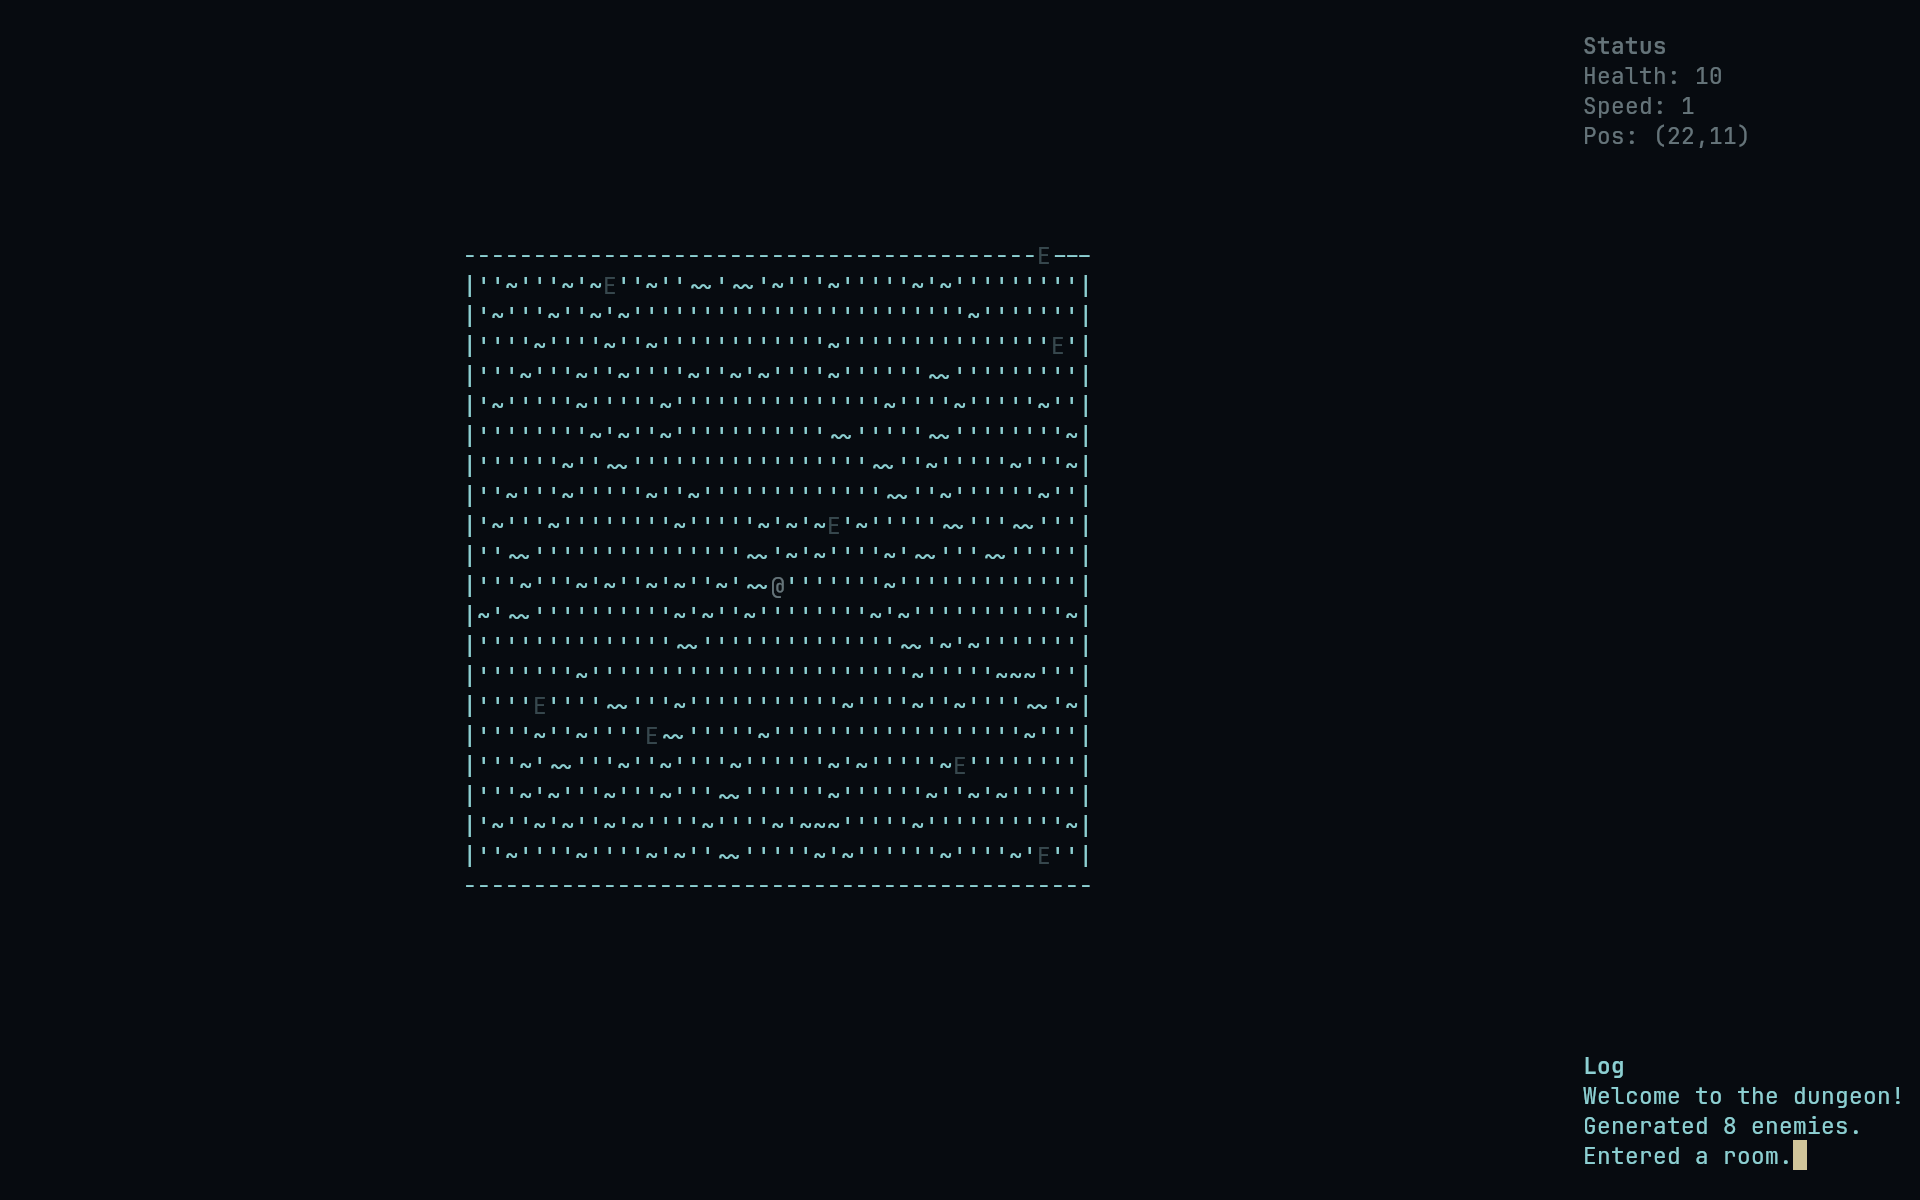
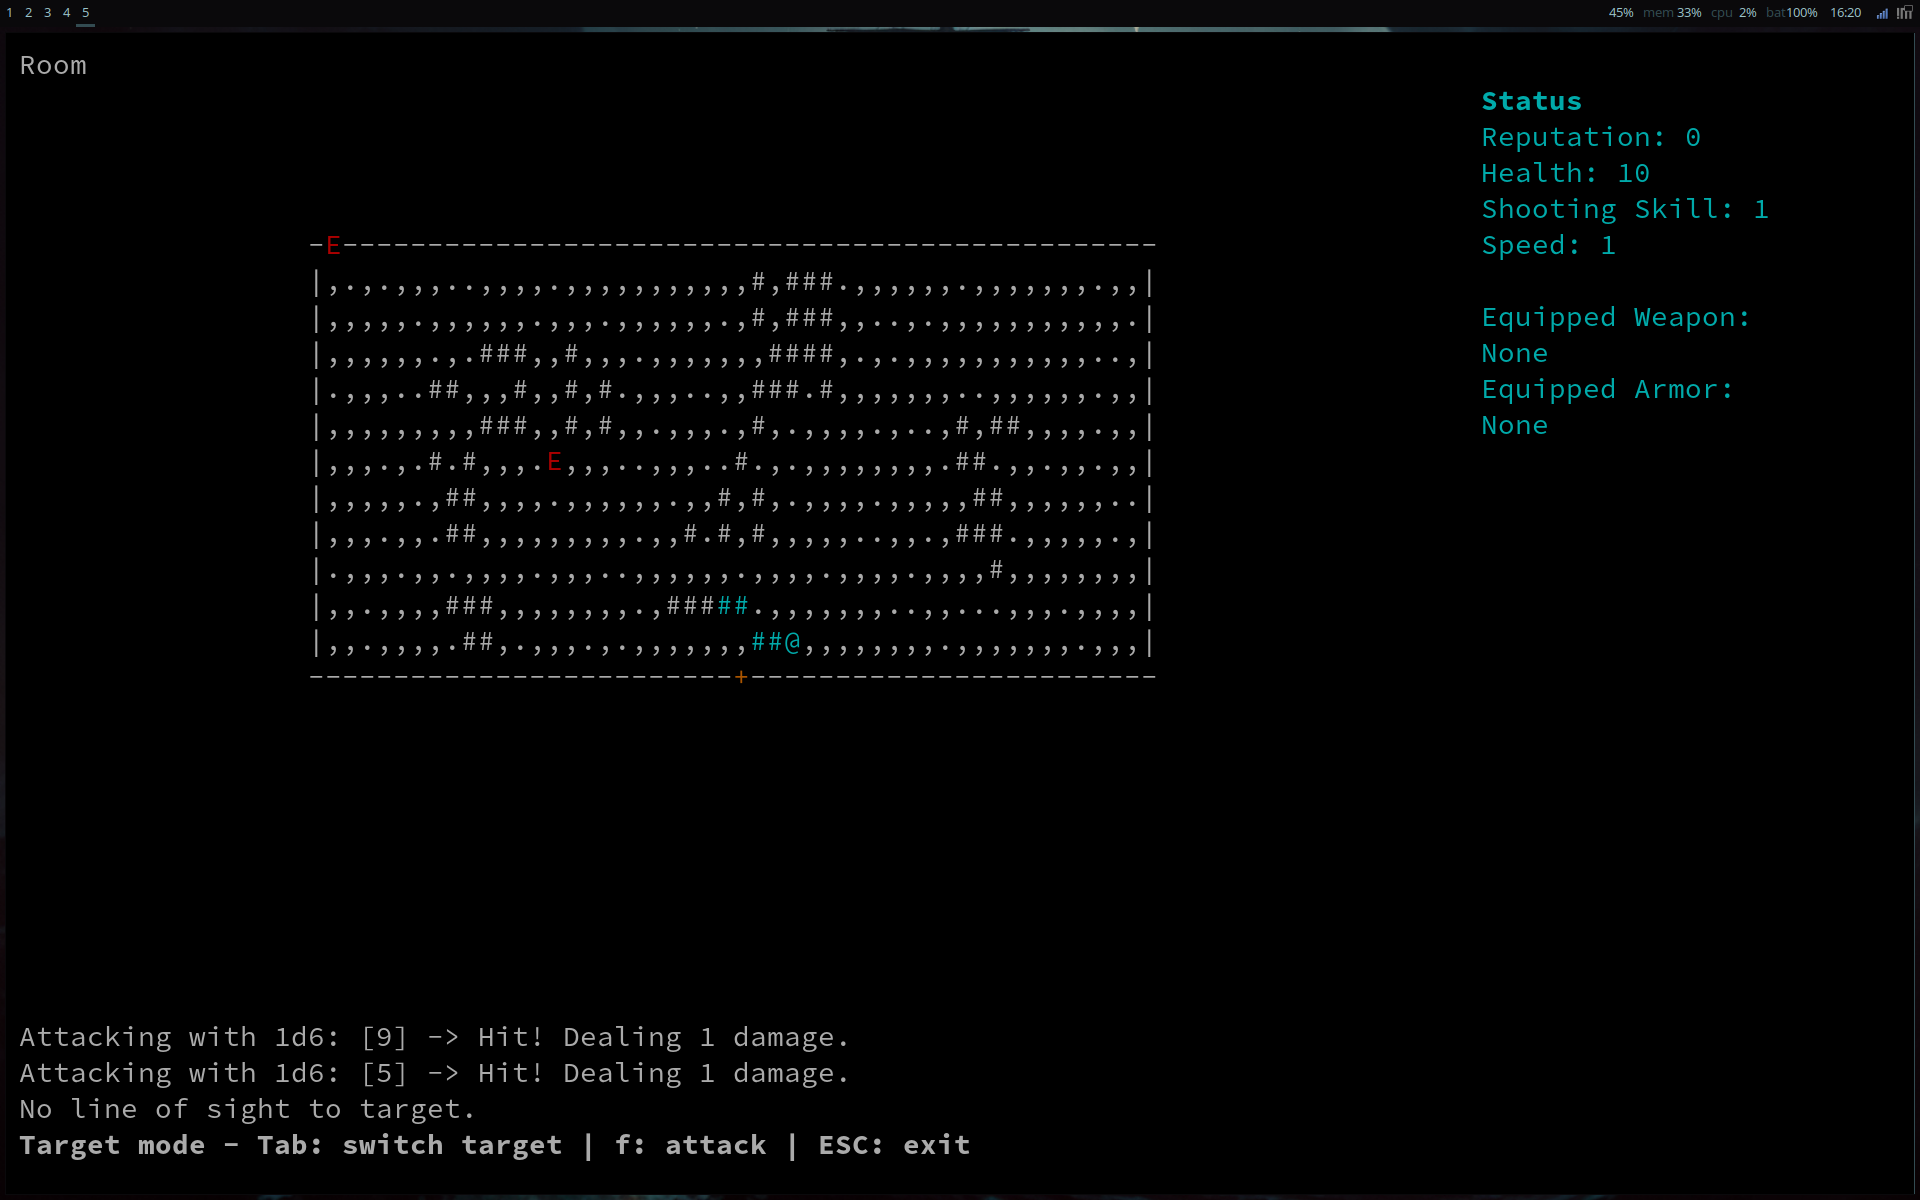
TargetMode: Respect Line of Sight

diff --git a/src/target_mode.py b/src/target_mode.py
@@ -12,15 +12,23 @@ class TargetMode:
         )
         self.target_x = enemies[self.target_index].x
         self.target_y = enemies[self.target_index].y
-        self.game.selected_enemy = enemies[self.target_index]
+        if self.has_line_of_sight(self.target_x, self.target_y):
+            self.game.selected_enemy = enemies[self.target_index]
 
     def select_target(self):
         self.target_index = (self.target_index + 1) % len(self.enemies)
-        self.game.selected_enemy = self.enemies[self.target_index]
         self.target_x = self.enemies[self.target_index].x
         self.target_y = self.enemies[self.target_index].y
+        if self.has_line_of_sight(self.target_x, self.target_y):
+            self.game.selected_enemy = self.enemies[self.target_index]
+        else:
+            self.game.selected_enemy = None
 
     def attack_target(self):
+        if not self.game.selected_enemy:
+            self.game.add_log_message("No line of sight to target.")
+            self.disable()
+            return
         self.game.selected_enemy = self.enemies[self.target_index]
         self.game.player.attack(self.game.selected_enemy)
         self.disable()
@@ -46,6 +54,22 @@ class TargetMode:
                 self.disable()
                 break
 
+    def has_line_of_sight(self, x, y):
+        dx = x - self.game.player.x
+        dy = y - self.game.player.y
+
+        steps = max(abs(dx), abs(dy))
+        for i in range(1, steps):
+            x = self.game.player.x + int(i * dx / steps)
+            y = self.game.player.y + int(i * dy / steps)
+
+            if self.game.current_room.tiles[y][x] in [
+                self.game.TILES["wall"],
+                self.game.TILES["obstacle"],
+            ]:
+                return False
+        return True
+
     def draw_target_line(self):
         if not self.game.target_mode:
             return
@@ -56,6 +80,14 @@ class TargetMode:
         for i in range(1, steps):
             x = self.game.player.x + int(i * dx / steps)
             y = self.game.player.y + int(i * dy / steps)
+
+            # respect line of sight - stop drawing if we hit a wall or obstacle
+            if self.game.current_room.tiles[y][x] in [
+                self.game.TILES["wall"],
+                self.game.TILES["obstacle"],
+            ]:
+                break
+
             self.game.stdscr.addch(
                 y + self.game.player.offset_y,
                 x + self.game.player.offset_x,

diff --git a/src/rooms.py b/src/rooms.py
@@ -28,14 +28,32 @@ class Room(RoomBase, EnemiesMixin):
         self.hallway_entry = (x, y)
 
     def generate(self):
+        tiles = self.generate_floor()
+        tiles = self.generate_random_rumble(tiles)
+        tiles = self.generate_obstacles(tiles)
+        return tiles
+
+    def generate_floor(self):
         return [
-            [
-                (
-                    self.game.TILES["floor"]
-                    if random.random() > 0.2
-                    else self.game.TILES["rumble"]
-                )
-                for _ in range(self.width)
-            ]
+            [self.game.TILES["floor"] for _ in range(self.width)]
             for _ in range(self.height)
         ]
+
+    def generate_random_rumble(self, tiles):
+        for y in range(self.height):
+            for x in range(self.width):
+                if random.random() > 0.2:
+                    tiles[y][x] = self.game.TILES["rumble"]
+        return tiles
+
+    def generate_obstacles(self, tiles):
+        for _ in range(random.randint(3, 9)):
+            x = random.randint(1, self.width - 5)
+            y = random.randint(1, self.height - 5)
+            width = random.randint(3, 5)
+            height = random.randint(3, 5)
+            for i in range(y, y + height):
+                for j in range(x, x + width):
+                    if random.random() > 0.5:
+                        tiles[i][j] = self.game.TILES["obstacle"]
+        return tiles

diff --git a/src/player.py b/src/player.py
@@ -38,23 +38,21 @@ class Player:
     def move(self, dx, dy, game):
         new_x = self.x + dx
         new_y = self.y + dy
+        if not game.current_room.is_walkable(new_x, new_y):
+            return
 
-        if (
-            0 <= new_x < game.current_room.width
-            and 0 <= new_y < game.current_room.height
-        ):
-            if game.current_room is game.hallway:
-                for room in game.available_rooms:
-                    if (new_x, new_y) == room.hallway_entry:
-                        self.game.enter_room(room)
-                        return
-            else:
-                if game.current_room.exit:
-                    if (new_x, new_y) == game.current_room.exit:
-                        self.game.exit_room(game.current_room)
-                        return
-            self.x = new_x
-            self.y = new_y
+        if game.current_room is game.hallway:
+            for room in game.available_rooms:
+                if (new_x, new_y) == room.hallway_entry:
+                    self.game.enter_room(room)
+                    return
+        else:
+            if game.current_room.exit:
+                if (new_x, new_y) == game.current_room.exit:
+                    self.game.exit_room(game.current_room)
+                    return
+        self.x = new_x
+        self.y = new_y
 
     @property
     def attack_power(self):

diff --git a/src/room_base.py b/src/room_base.py
@@ -36,6 +36,16 @@ class RoomBase:
     def offset_y(self):
         return (self.game.map_height - self.height) // 2
 
+    def is_walkable(self, x, y):
+        if 0 <= x < self.width and 0 <= y < self.height:
+            return self.tiles[y][x] in (
+                self.game.TILES["rumble"],
+                self.game.TILES["hallway"],
+                self.game.TILES["floor"],
+                self.game.TILES["door"],
+            )
+        return False
+
     def draw(self, stdscr):
         for y, row in enumerate(self.tiles):
             for x, tile in enumerate(row):

diff --git a/src/constants.py b/src/constants.py
@@ -1,8 +1,9 @@
 TILES_EMOJI = {
-    "wall": "🧱",
+    "wall": "#",
     "hallway": "·",
     "floor": "·",
     "rumble": ".",
+    "obstacle": "🪨",
     "door": "╬",
     "door_explored": "┼",
     "door_cleared": "╳",
@@ -14,6 +15,7 @@ TILES_ASCII = {
     "hallway": ".",
     "floor": ".",
     "rumble": ",",
+    "obstacle": "#",
     "door": "X",
     "door_explored": "x",
     "door_cleared": " ",

diff --git a/src/enemies.py b/src/enemies.py
@@ -77,8 +77,9 @@ class Enemy:
         )
 
     def move(self, dx, dy):
-        self.x += dx
-        self.y += dy
+        if self.room.is_walkable(self.x + dx, self.y + dy):
+            self.x += dx
+            self.y += dy
 
     def update_movement(self):
         self.current_speed += 1

diff --git a/README.md b/README.md
@@ -2,5 +2,6 @@
 
 Just a small roguelike
 
-![Overworld Hallway](contrib/rl1.png)
+![Challenge Room](contrib/rl1.png)
 ![Challenge Room](contrib/rl2.png)
+![Overworld Hallway](contrib/rl3.png)
